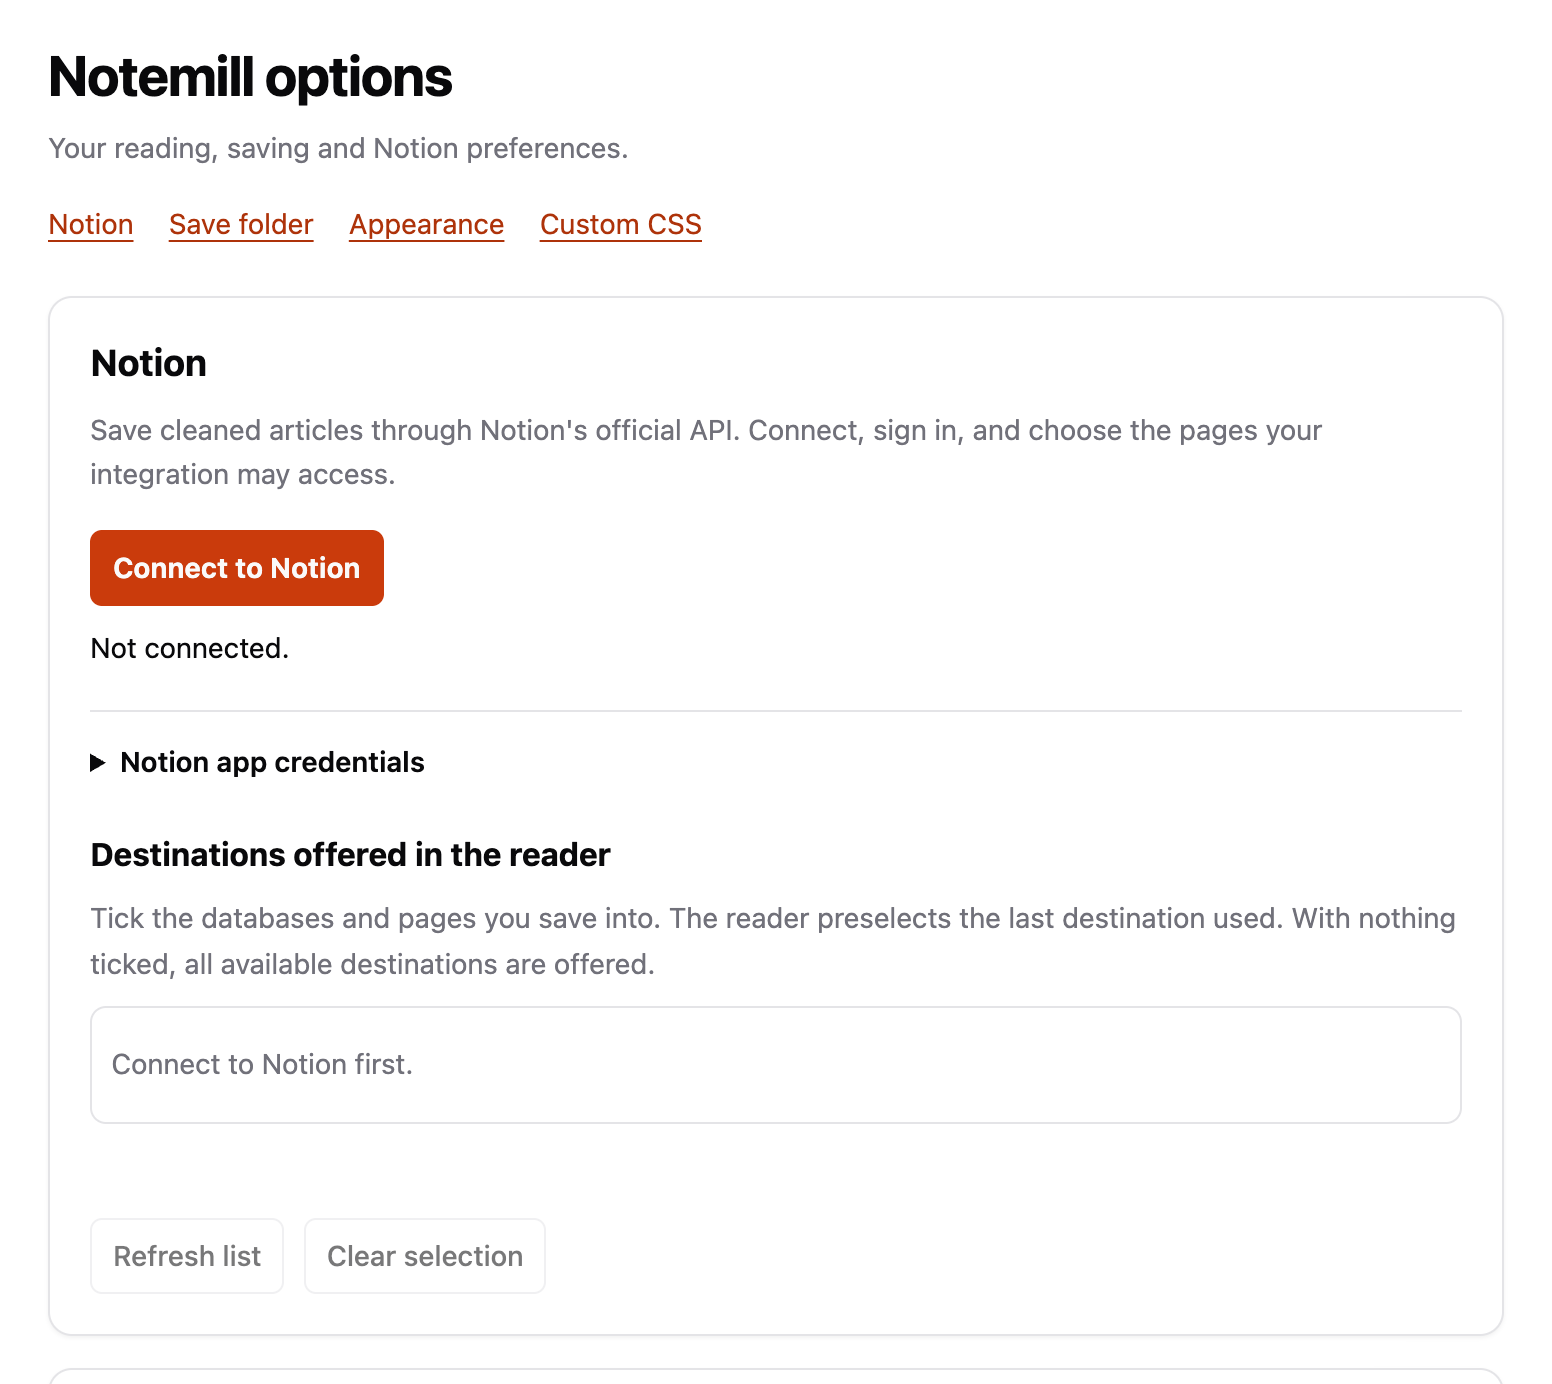
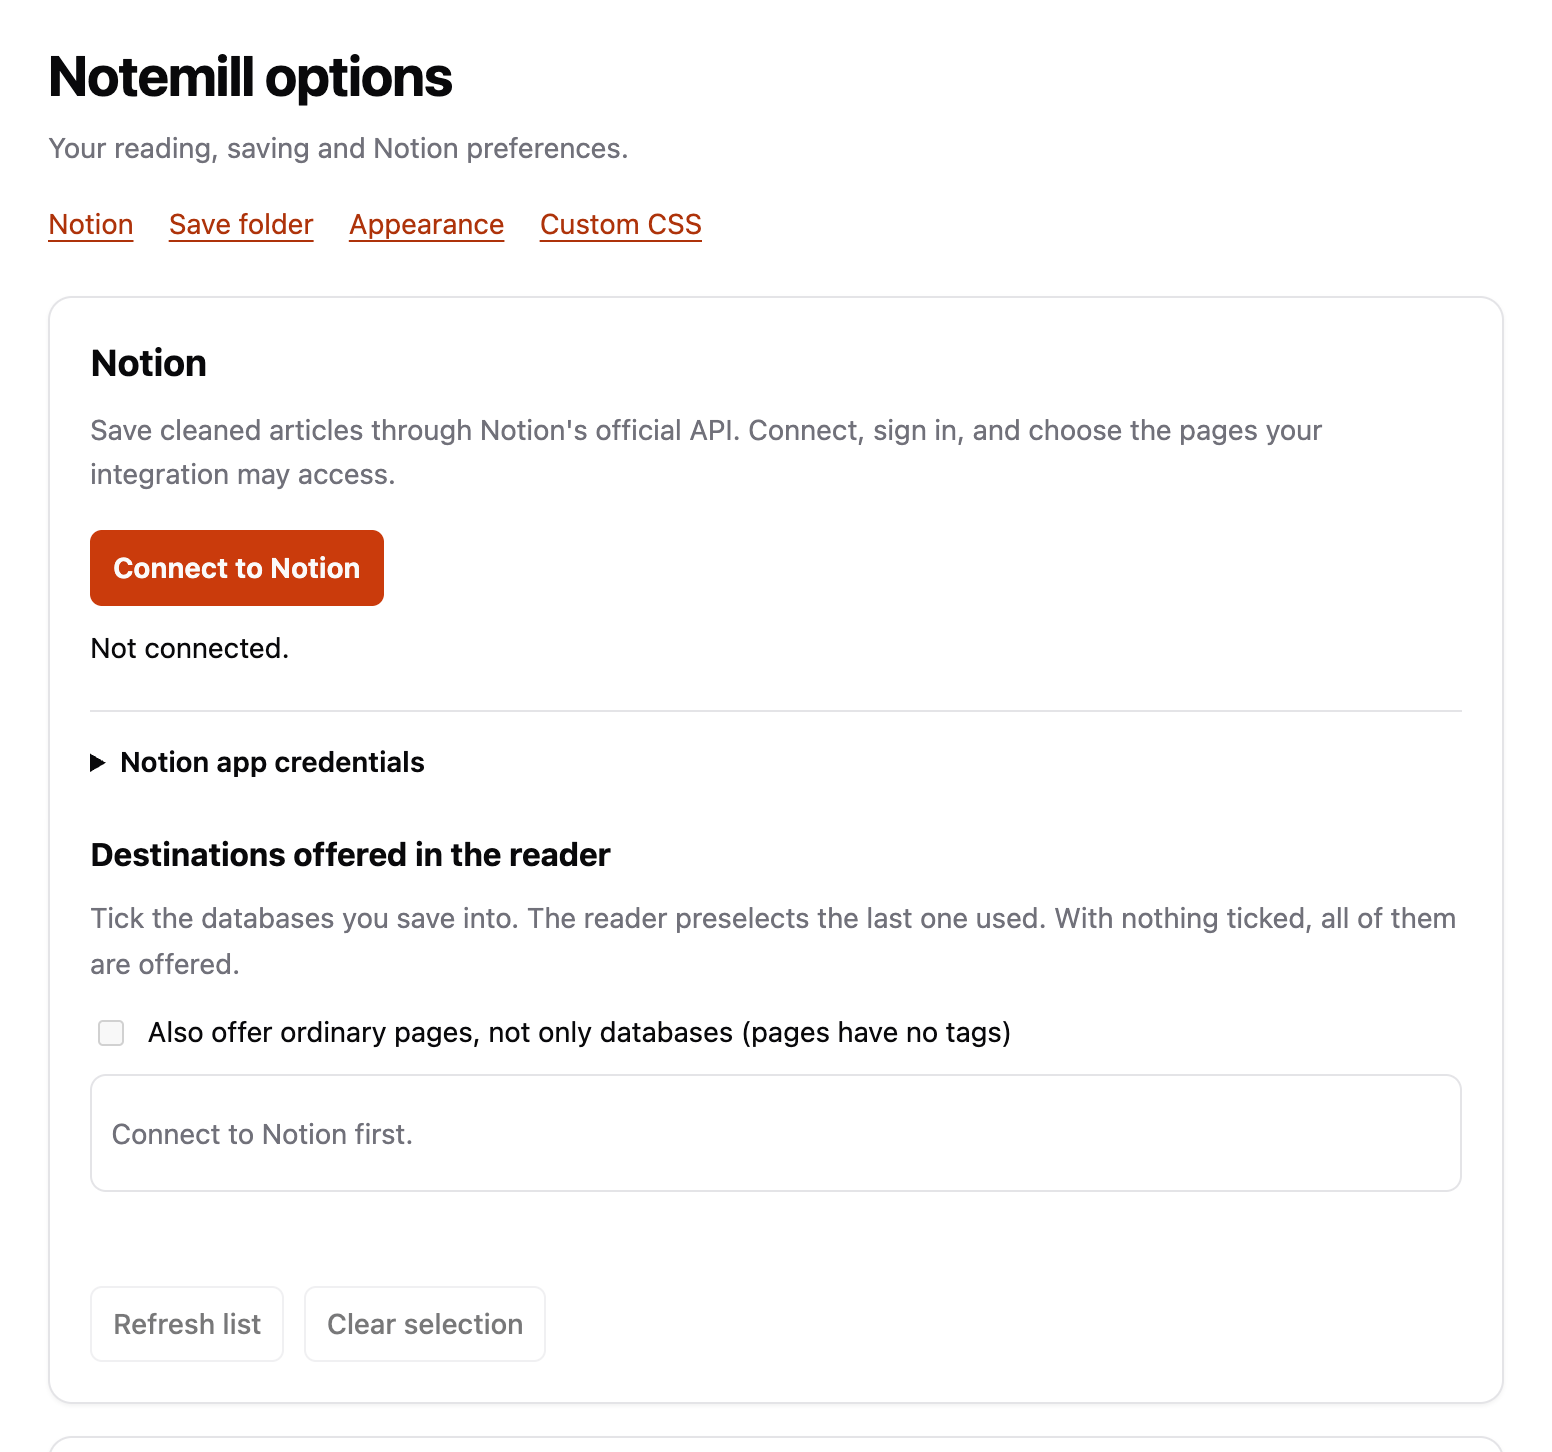
Offer every shared database, and databases only by default
Notion's /search pages its results, and a filtered page often comes back
short while has_more is still true. Notemill read only the first page, so
some shared databases never appeared in the chooser. listTargets now
follows next_cursor, up to ten pages per kind.

The reader and the settings now offer databases only: that is where a saved
article gets properties and tags. A new setting, "Also offer ordinary
pages", brings pages back for anyone who saves into them; the stored list
is unchanged, so switching only changes what is shown and offered. The
"(db)" and "database" labels appear only when both kinds are listed.

Unit tests cover the paging, its cap and the filter, including a ticked
page while pages are off. README and pictures updated to match.

diff --git a/notion.js b/notion.js
@@ -284,14 +284,33 @@ var LRNotion = (function () {
     return true;
   }
 
+  /* Notion's /search pages its results, and a filtered page often comes back
+     with fewer than page_size entries while has_more is still true. Reading
+     only the first page is why some shared databases never showed up, so
+     follow next_cursor - up to SEARCH_PAGES pages per kind, so a huge
+     workspace cannot keep the list loading forever. */
+  var SEARCH_PAGES = 10;
+
   function listTargets(token, botId) {
     function search(kind) {
-      return request("/search", "POST", {
-        filter:    {property: "object", value: kind},
-        sort:      {direction: "descending", timestamp: "last_edited_time"},
-        page_size: 100
-      }, token).then(function (res) {
-        return (res.results || []).filter(function (r) {
+      var found = [];
+      function page(cursor, n) {
+        var body = {
+          filter:    {property: "object", value: kind},
+          sort:      {direction: "descending", timestamp: "last_edited_time"},
+          page_size: 100
+        };
+        if (cursor) { body.start_cursor = cursor; }
+        return request("/search", "POST", body, token).then(function (res) {
+          found = found.concat(res.results || []);
+          if (res.has_more && res.next_cursor && n + 1 < SEARCH_PAGES) {
+            return page(res.next_cursor, n + 1);
+          }
+          return found;
+        });
+      }
+      return page(null, 0).then(function (results) {
+        return results.filter(function (r) {
           return isDestination(r, botId);
         }).map(function (r) {
           return {id: r.id, type: r.object, title: titleOf(r), icon: iconOf(r)};
@@ -305,15 +324,31 @@ var LRNotion = (function () {
   }
 
   /**
+   * Databases only, unless the user asked for ordinary pages too. Databases
+   * are where a saved article gets properties and tags; a plain page is a
+   * deliberate choice, made in the options.
+   *
+   * @param Array targets
+   * @param Boolean includePages
+   * @return Array
+   */
+  function visible(targets, includePages) {
+    return (targets || []).filter(function (t) {
+      return includePages || t.type === "database";
+    });
+  }
+
+  /**
    * The destinations to offer in the reader: the subset ticked in the options,
    * or everything while nothing has been ticked.
    *
    * @param Array targets
    * @param Array|null chosen ids
+   * @param Boolean includePages  also offer ordinary pages
    * @return Array
    */
-  function offered(targets, chosen) {
-    var list = targets || [];
+  function offered(targets, chosen, includePages) {
+    var list = visible(targets, includePages);
     if (!chosen || !chosen.length) { return list; }
     var wanted = {};
     chosen.forEach(function (id) { wanted[id] = true; });
@@ -587,7 +622,7 @@ var LRNotion = (function () {
     hasHostPermission: hasHostPermission, requestHostPermission: requestHostPermission,
     connect: connect, listTargets: listTargets, createPage: createPage,
     appDefaults: appDefaults, credentials: credentials,
-    tagOptions: tagOptions, offered: offered, _isDestination: isDestination,
+    tagOptions: tagOptions, offered: offered, visible: visible, _isDestination: isDestination,
     // exposed for tests
     _demoteImages: demoteImages, _titleOf: titleOf, _authorize: authorize,
     _tagProperty: tagProperty, _cleanTags: cleanTags, _looksLikeTagName: looksLikeTagName,

diff --git a/options.js b/options.js
@@ -124,7 +124,9 @@ function renderNotion(settings) {
     flash($("notion_state"), "Not connected.", "");
   }
 
-  renderTargets(settings.targets || [], settings.chosenTargets, connected);
+  $("notion_include_pages").checked  = !!settings.includePages;
+  $("notion_include_pages").disabled = !connected;
+  renderTargets(LRNotion.visible(settings.targets, settings.includePages), settings.chosenTargets, connected);
   $("notion_refresh").disabled = !connected;
   $("notion_targets_none").disabled = !connected;
 }
@@ -154,6 +156,9 @@ function renderTargets(targets, chosen, connected) {
 
   var ticked = {};
   (chosen || []).forEach(function (id) { ticked[id] = true; });
+  /* "database" / "page" only tells the two apart; with databases alone it is noise. */
+  var mixed = targets.some(function (t) { return t.type !== "database"; }) &&
+              targets.some(function (t) { return t.type === "database"; });
 
   targets.forEach(function (t) {
     var row = document.createElement("label");
@@ -175,7 +180,7 @@ function renderTargets(targets, chosen, connected) {
 
     row.appendChild(box);
     row.appendChild(name);
-    row.appendChild(kind);
+    if (mixed) { row.appendChild(kind); }
     host.appendChild(row);
   });
 
@@ -214,8 +219,16 @@ function refreshTargets() {
       return;
     }
     if (!resp.ok) { flash($("notion_target_state"), resp.error, "err"); return; }
-    renderTargets(resp.targets, resp.chosen, true);
+    renderTargets(LRNotion.visible(resp.targets, $("notion_include_pages").checked), resp.chosen, true);
   });
+}
+
+/* Databases only by default; ordinary pages are an opt-in. The full list is
+   already stored, so switching only changes what is shown and offered. */
+function saveIncludePages() {
+  LRNotion.save({includePages: $("notion_include_pages").checked})
+    .then(function () { return LRNotion.load(); })
+    .then(renderNotion);
 }
 
 function connectNotion() {
@@ -339,3 +352,4 @@ $("notion_connect").addEventListener("click", connectNotion);
 $("notion_disconnect").addEventListener("click", disconnectNotion);
 $("notion_refresh").addEventListener("click", refreshTargets);
 $("notion_targets_none").addEventListener("click", clearChosenTargets);
+$("notion_include_pages").addEventListener("change", saveIncludePages);

diff --git a/readability.js b/readability.js
@@ -2567,11 +2567,14 @@ var readability = {
 
             /* ---- destination ---- */
             var sel = document.createElement("select");
+            /* "(db)" only tells databases from pages; with databases alone it is noise. */
+            var mixed = resp.targets.some(function (x) { return x.type !== "database"; }) &&
+                        resp.targets.some(function (x) { return x.type === "database"; });
             for (var i = 0; i < resp.targets.length; i += 1) {
                 var t   = resp.targets[i];
                 var opt = document.createElement("option");
                 opt.value = t.id;
-                opt.textContent = (t.icon ? t.icon + " " : "") + t.title + (t.type === "database" ? " (db)" : "");
+                opt.textContent = (t.icon ? t.icon + " " : "") + t.title + (mixed && t.type === "database" ? " (db)" : "");
                 opt.setAttribute("data-type", t.type);
                 if (t.id === resp.defaultId) { opt.selected = true; }
                 sel.appendChild(opt);

diff --git a/options.html b/options.html
@@ -46,8 +46,12 @@
         </details>
 
         <h3 id="destinations" tabindex="-1">Destinations offered in the reader</h3>
-        <p class="hint">Tick the databases and pages you save into. The reader preselects the last
-          destination used. With nothing ticked, all available destinations are offered.</p>
+        <p class="hint">Tick the databases you save into. The reader preselects the last one used.
+          With nothing ticked, all of them are offered.</p>
+        <label class="check" for="notion_include_pages">
+          <input type="checkbox" id="notion_include_pages">
+          Also offer ordinary pages, not only databases (pages have no tags)
+        </label>
         <div id="notion_targets" class="targets" role="group" aria-labelledby="destinations"></div>
         <p id="notion_target_state" role="status" aria-live="polite"></p>
         <div class="actions">

diff --git a/css/extension.css b/css/extension.css
@@ -57,6 +57,7 @@ select { width: auto; }
 code { background: hsl(var(--secondary)); padding: 0.1em 0.3em; border-radius: 3px; overflow-wrap: anywhere; user-select: all; }
 details { margin-top: 1.25rem; border-top: 1px solid hsl(var(--border)); padding-top: 0.85rem; }
 summary { cursor: pointer; font-weight: 600; }
+label.check { display: flex; align-items: center; gap: 0.55rem; font-weight: 400; margin: 0.75rem 0 0.25rem; }
 .targets { max-height: 17rem; overflow-y: auto; margin: 0.6rem 0; border: 1px solid hsl(var(--border)); border-radius: var(--radius); padding: 0.6rem; }
 .targets label { display: flex; align-items: baseline; gap: 0.6rem; font-weight: 400; margin: 0.35rem 0; }
 .targets label span { min-width: 0; overflow-wrap: anywhere; }

diff --git a/sw.js b/sw.js
@@ -84,7 +84,8 @@ chrome.runtime.onMessage.addListener(function(msg, sender, sendResponse) {
     }).then(function (r) {
       /* The options page asks for everything, so it can offer the choice;
          the reader gets only what was ticked there. */
-      var targets = msg.all ? r.targets : LRNotion.offered(r.targets, r.settings.chosenTargets);
+      var targets = msg.all ? r.targets
+                            : LRNotion.offered(r.targets, r.settings.chosenTargets, r.settings.includePages);
       sendResponse({ok: true, targets: targets, total: (r.targets || []).length,
                     chosen: r.settings.chosenTargets || [],
                     defaultId: r.settings.target ? r.settings.target.id : null,

diff --git a/README.md b/README.md
@@ -41,7 +41,7 @@
 
 - **Read without clutter.** One click turns a busy article into a calm page: no ads, menus,
   banners or pop-ups, just the text and its pictures in a comfortable column.
-- **Send to Notion.** Choose a database or page, add tags (Notemill suggests the ones your
+- **Send to Notion.** Choose one of your databases, add tags (Notemill suggests the ones the
   database already has), press Save. Notemill creates a new Notion page with the article's
   headings, text, images and a link to the source.
 - **Save as Markdown.** A folder with the article as a `.md` file and its images, ready for
@@ -123,18 +123,22 @@ right-click the Notemill icon and choose **Options**, or click the gear in the r
    Notion's own address, which Notemill needs to create pages for you.
 3. Notion opens a sign-in window. Choose your workspace, then **select the pages and databases
    Notemill may use**. Include at least the database your articles should go into, for example
-   a *Reading list*. Notemill can only see what you select here.
-4. Back in the settings you see *Connected to* your workspace, and the destinations you
-   selected. Optionally tick the ones the reader should offer; with nothing ticked, all of
-   them are offered.
+   a *Reading list*; selecting a page also shares the databases inside it. Notemill can only
+   see what you select here.
+4. Back in the settings you see *Connected to* your workspace and your databases. Optionally
+   tick the ones the reader should offer; with nothing ticked, all of them are offered.
 
 <picture>
   <source media="(prefers-color-scheme: dark)" srcset="assets/readme/options-connected-dark.png">
-  <img src="assets/readme/options-connected-light.png" width="560" alt="Notemill's settings after connecting: Connected to Acme Studio, with a list of destinations to tick: Reading list, Research notes and Inbox.">
+  <img src="assets/readme/options-connected-light.png" width="560" alt="Notemill's settings after connecting: Connected to Acme Studio, with the databases Reading list and Research notes ticked as destinations.">
 </picture>
 
+**Databases, not pages.** Notemill offers your databases as destinations, because that is
+where a saved article gets properties and tags. To save into ordinary pages as well, tick
+*Also offer ordinary pages* in the settings.
+
 **Tags.** Notemill writes tags into a database's *Tags* column: a multi-select column, or a
-relation to a tags database. Pages outside a database have no tags.
+relation to a tags database.
 
 Notion is optional: reading, Markdown, copying and printing work without connecting.
 
@@ -246,7 +250,7 @@ Details, including every permission and what is stored where: [PRIVACY.md](PRIVA
 | Clicking the icon does nothing | Notemill only works on ordinary web pages, not on `chrome://` pages, the Web Store, PDFs or a new tab. Open an article and try again. A tab that was open before you installed may need a reload. |
 | The shortcut does nothing | Another extension may use it. Set your own at `chrome://extensions/shortcuts`. |
 | *Connect to Notion* fails or the window closes | Click Connect again and finish the Notion window without closing it. Make sure you installed from `notemill.zip`. |
-| A database is missing in the reader | Notemill only sees what you selected when connecting. In Notion, open the database, choose **•••** → *Connections* → *Notemill*. Then press *refresh list* in the reader. |
+| A database is missing in the reader | Notemill only sees what you selected when connecting. In Notion, open the database, choose **•••** → *Connections* → *Notemill*. Then press *Refresh list* in the settings. Notion can take a minute before a newly shared database appears. |
 | Tags are not saved | The database needs a *Tags* column: multi-select, or a relation to a tags database. |
 | Some pictures are missing | Some sites block downloads of their images. The text is saved; the result says how many pictures could not be read. |
 | Notemill disappeared after a restart | The `notemill` folder was moved or deleted, or the developer-mode reminder was answered with *Disable*. Re-enable it at `chrome://extensions`. |
